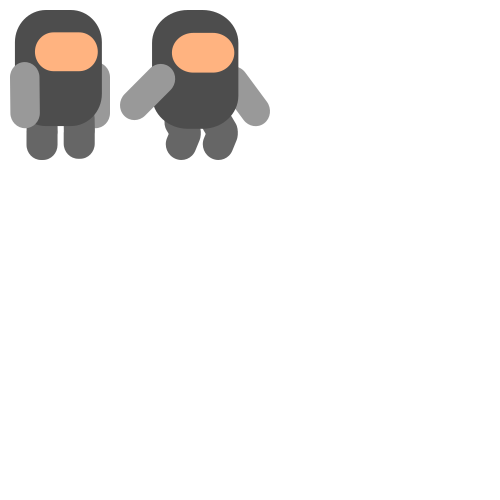
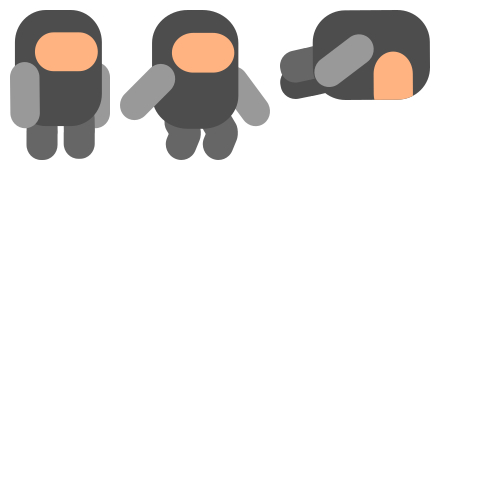
Add player dead state

Changed region(s): [[0.54, 0.0, 0.87, 0.21]]

diff --git a/src/level.rs b/src/level.rs
@@ -508,6 +508,10 @@ fn player_action(
     assets: &Assets,
 ) -> MoveAction {
     if player.health == Health::Dead {
+        player.body.form = Form::Rect {
+            width: 1.5 * PLAYER_RADIUS,
+            height: 0.9 * PLAYER_RADIUS,
+        };
         return MoveAction::default();
     }
     let mut move_direction = (0, 0);
@@ -971,21 +975,28 @@ pub fn draw_level(level: &Level, assets: &Assets, screen: &Screen) {
                 x: 2. * level.player.body.form.x_r() * screen.height,
                 y: 2. * level.player.body.form.y_r() * screen.height,
             }),
-            source: if level.player.visible {
-                Some(Rect {
+            source: Some(if level.player.health == Health::Dead {
+                Rect {
+                    x: 280.,
+                    y: 10.,
+                    w: 150.,
+                    h: 90.,
+                }
+            } else if level.player.visible {
+                Rect {
                     x: 10.,
                     y: 10.,
                     w: 100.,
                     h: 150.,
-                })
+                }
             } else {
-                Some(Rect {
+                Rect {
                     x: 120.,
                     y: 10.,
                     w: 150.,
                     h: 150.,
-                })
-            },
+                }
+            }),
             flip_x: level.player.body.sight.0.x < 0.,
             ..Default::default()
         },
